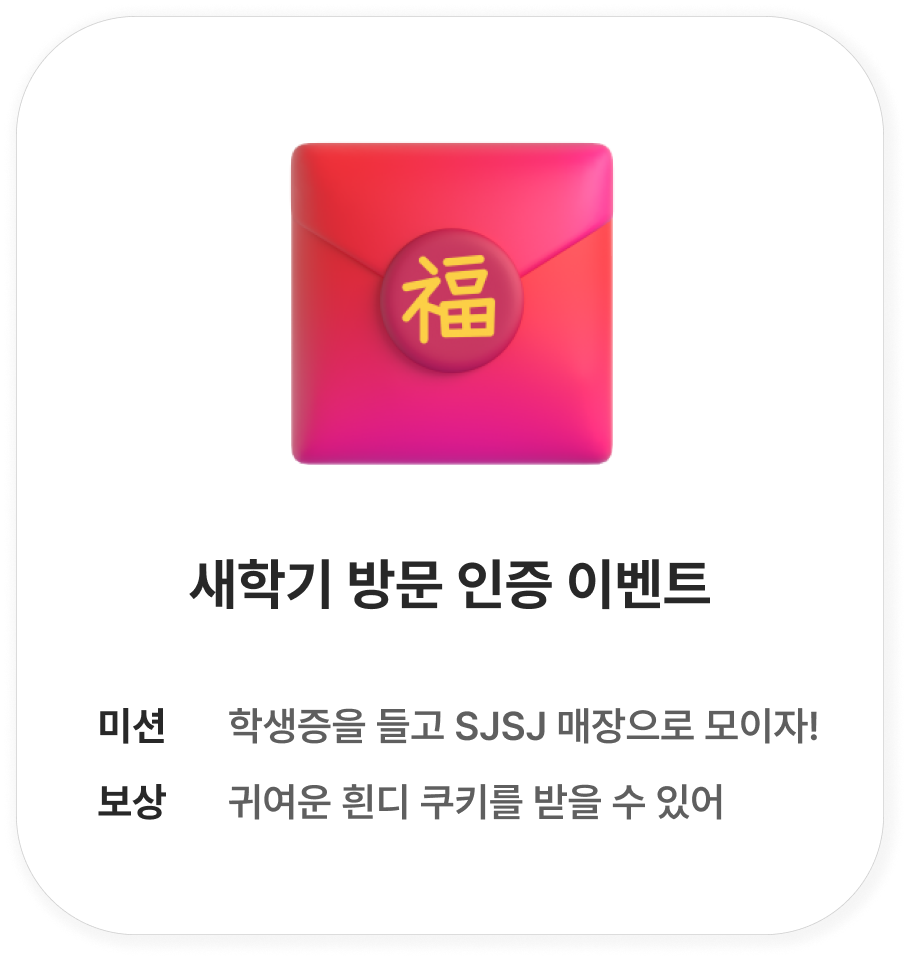
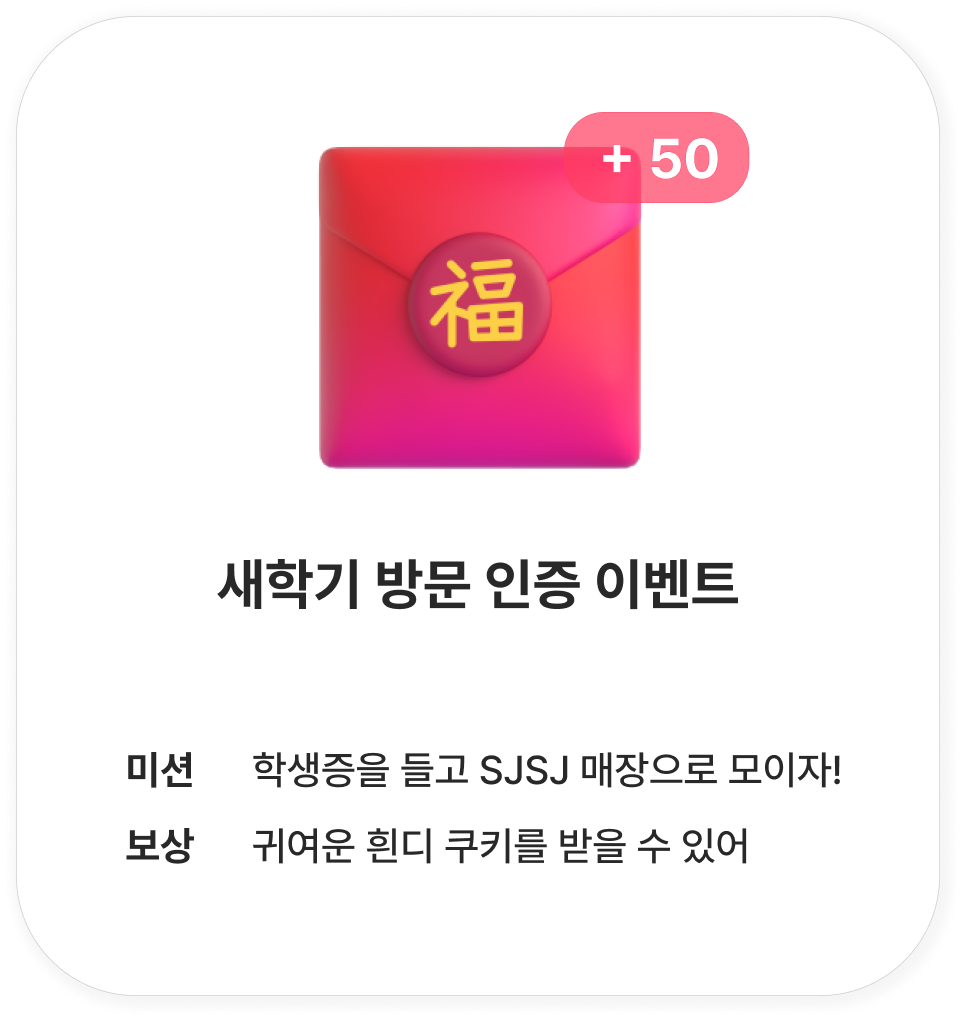
feat: 경험치 연결 및 레벨업 페이지 제작

diff --git a/src/pages/CouponTab/CouponTab.jsx b/src/pages/CouponTab/CouponTab.jsx
@@ -15,15 +15,14 @@
 import React, { useState } from 'react';
 
 //component
-import Header from 'components/Header/Header';
+import MainHeader from 'components/Header/MainHeader';
 import CouponCard from 'components/CouponCard/CouponCard';
 import MyQrLoader from 'components/QRScanner/MyQrLoader';
 //hook
 import useGetUserCouponList from 'hooks/useGetUserCouponList';
-// import bottleIcon from 'assets/icons/bottle_icon.png';
 
-function CouponTab() {
-  const [activeTab, setActiveTab] = useState('QR');
+function CouponTab({ active="QR" }) {
+  const [activeTab, setActiveTab] = useState(active);
   const { events, loading, error } = useGetUserCouponList();
 
   if (loading) return <div>Loading...</div>;
@@ -35,19 +34,19 @@ function CouponTab() {
 
   return (
     <div className="flex flex-col min-h-screen">
-      <Header text={'이벤트'} />
-      <div className="flex border-b pt-3 px-4 w-full mb-4">
+      <MainHeader />
+      <div className="flex justify-between mt-16 pt-3 px-20 w-full mb-4">
         <div
-          className={`flex-1 text-center p-2 cursor-pointer text-base ${activeTab === 'QR' ? 'border-b-4 border-black font-bold' : ''}`}
-          onClick={() => handleTabClick('QR')}
-        >
-          나의 QR
-        </div>
-        <div
-          className={`flex-1 text-center p-2 cursor-pointer text-base ${activeTab === 'MyCoupon' ? 'border-b-4 border-black font-bold' : ''}`}
+          className={`text-center p-2 cursor-pointer text-base ${activeTab === 'MyCoupon' ? 'border-b-4 border-gray-800 font-bold' : ''}`}
           onClick={() => handleTabClick('MyCoupon')}
         >
           나의 쿠폰
+        </div>
+        <div
+          className={`text-center p-2 cursor-pointer text-base ${activeTab === 'QR' ? 'border-b-4 border-gray-800 font-bold' : ''}`}
+          onClick={() => handleTabClick('QR')}
+        >
+          나의 QR
         </div>
       </div>
       <div className="flex flex-grow justify-center ">

diff --git a/src/pages/RandomEventSpot/RandomEventSpotQRSuccess.jsx b/src/pages/RandomEventSpot/RandomEventSpotQRSuccess.jsx
@@ -13,12 +13,14 @@
  * @desc 랜덤스팟 이벤트 참여 페이지 CSS 수정
  */
 import React, { useEffect }  from 'react';
+import { useNavigate } from 'react-router-dom';
 import MainHeader from 'components/Header/MainHeader';
 import BlackButton from 'components/Button/BlackButton';
 import EventCardDetail from 'assets/images/event-card-detail.png'
 import useFirework from 'hooks/animation/useFirework';
 
 function RandomEventSpotQRSuccess() {
+  const navigate = useNavigate();
   const firework = useFirework();
 
   useEffect(() => {
@@ -32,7 +34,7 @@ function RandomEventSpotQRSuccess() {
         <p className='text-center mb-6 text-base text-gray-600 font-bold'>이벤트에 참여해줘서 고마워</p>
         <img src={EventCardDetail} className='mb-6'/>
       </div>
-      <BlackButton>경험치 보상받기</BlackButton>
+      <BlackButton onClick={() => navigate('/getExp/encourage')}>경험치 보상받기</BlackButton>
     </div>
   );
 }

diff --git a/src/App.js b/src/App.js
@@ -31,6 +31,7 @@ import CaptainHeendy from 'pages/CaptainHeendy/CaptainHeendy';
 import FriendGame from 'pages/FriendGame/FriendGame';
 import Dice from 'pages/FriendGame/Dice';
 import GetExp from 'pages/FriendGame/GetExp';
+import LevelUp from 'pages/FriendGame/LevelUp';
 import TheHyundaiMap from 'pages/TheHyundaiMap/TheHyundaiMap';
 import RandomsSpotPush from 'pages/RandomEventSpot/RandomsSpotPush';
 import RandomSpotResult from 'pages/RandomEventSpot/RandomSpotResult';
@@ -66,6 +67,7 @@ const router = createBrowserRouter([
       { path: 'friendGame', element: <FriendGame /> },
       { path: 'dice', element: <Dice /> },
       { path: 'getExp/:type', element: <GetExp /> },
+      { path: 'levelUp/:id', element: <LevelUp /> },
       { path: 'theHyundaiMap', element: <TheHyundaiMap /> },
       { path: 'chatBot', element: <ChatBot /> },
       { path: 'randomsSpotPush', element: <RandomsSpotPush /> },

diff --git a/src/pages/FriendGame/LevelUp.jsx b/src/pages/FriendGame/LevelUp.jsx
@@ -1,0 +1,29 @@
+/**
+ * @author 엄상은
+ * @email sangeun.e.9@gmail.com
+ * @create date 2024-03-09 20:46:19
+ * @modify date 2024-03-09 20:46:19
+ * @desc 레벨업 페이지
+ */
+
+import React from 'react';
+import { useNavigate, useParams } from 'react-router-dom';
+
+import MainHeader from 'components/Header/MainHeader';
+import BlackButton from 'components/Button/BlackButton';
+
+function LevelUp() {
+  const navigate = useNavigate();
+  const { id } = useParams();
+
+  const imageUrl = `https://fruitfruit.s3.ap-northeast-2.amazonaws.com/etc/level-${id}-card.png`;
+
+  return (
+    <div className="h-screen" style={{ backgroundImage: `url(${imageUrl})` }}>
+      <MainHeader />
+      <BlackButton onClick={() => navigate('/couponTab')}>쿠폰 확인하러 가기</BlackButton>
+    </div>
+  );
+}
+
+export default LevelUp;

diff --git a/src/pages/FriendGame/GetExp.jsx b/src/pages/FriendGame/GetExp.jsx
@@ -18,7 +18,7 @@ import ProgressBar from 'components/ModalBubbleContent/ProgressBar';
 const typeMap = {
   water: { exp: 10, route: '/friendGame', routeText: '친구 페이지로' }, // 친구 게임
   power: { exp: 20, route: '/main', routeText: '메인으로' }, // GPS
-  sandwich: { exp: 10, route: '/friendGame', routeText: '친구 페이지로' }, // 온라인 게임
+  sandwich: { exp: 10, route: '/storeDetail/2', routeText: '매장 페이지로' }, // 리뷰
   encourage: { exp: 30, route: '/main', routeText: '메인으로' }, // 이벤트
 };
 

diff --git a/src/pages/FriendGame/FriendGame.jsx b/src/pages/FriendGame/FriendGame.jsx
@@ -72,7 +72,7 @@ function FriendGame() {
           <span className="text-right font font-semibold">70%</span>
         </div>
         <div className="mb-5">
-          <ProgressBar fromValue={70} toValue={70}/>
+          <ProgressBar fromValue={0} toValue={70}/>
         </div>
         <div className='flex justify-between items-center w-full text-sm'>
           <div className='border border-gray-200 rounded-2xl flex flex-col justify-center items-center bg-gray-100 w-36 h-32' onClick={() => navigate('/dice')} >

diff --git a/src/components/QRScanner/MyQrLoader.jsx b/src/components/QRScanner/MyQrLoader.jsx
@@ -47,7 +47,7 @@ function MyQrLoader() {
 
     return (
         <div className="flex items-center h-[40vh] mx-4 border-2 border-black rounded-xl overflow-hidden">
-            <img src={qrData} alt="QR code" className="w-full" />
+            <img src={qrData} className="w-full" />
         </div>
     )
 }

diff --git a/src/hooks/animation/useProgress.jsx b/src/hooks/animation/useProgress.jsx
@@ -7,7 +7,7 @@
  */
 import { useEffect, useState } from 'react';
 
-const useProgress = (fromValue, toValue, duration = 1000) => {
+const useProgress = (fromValue, toValue, duration = 500) => {
   const [progress, setProgress] = useState(fromValue);
 
   useEffect(() => {
